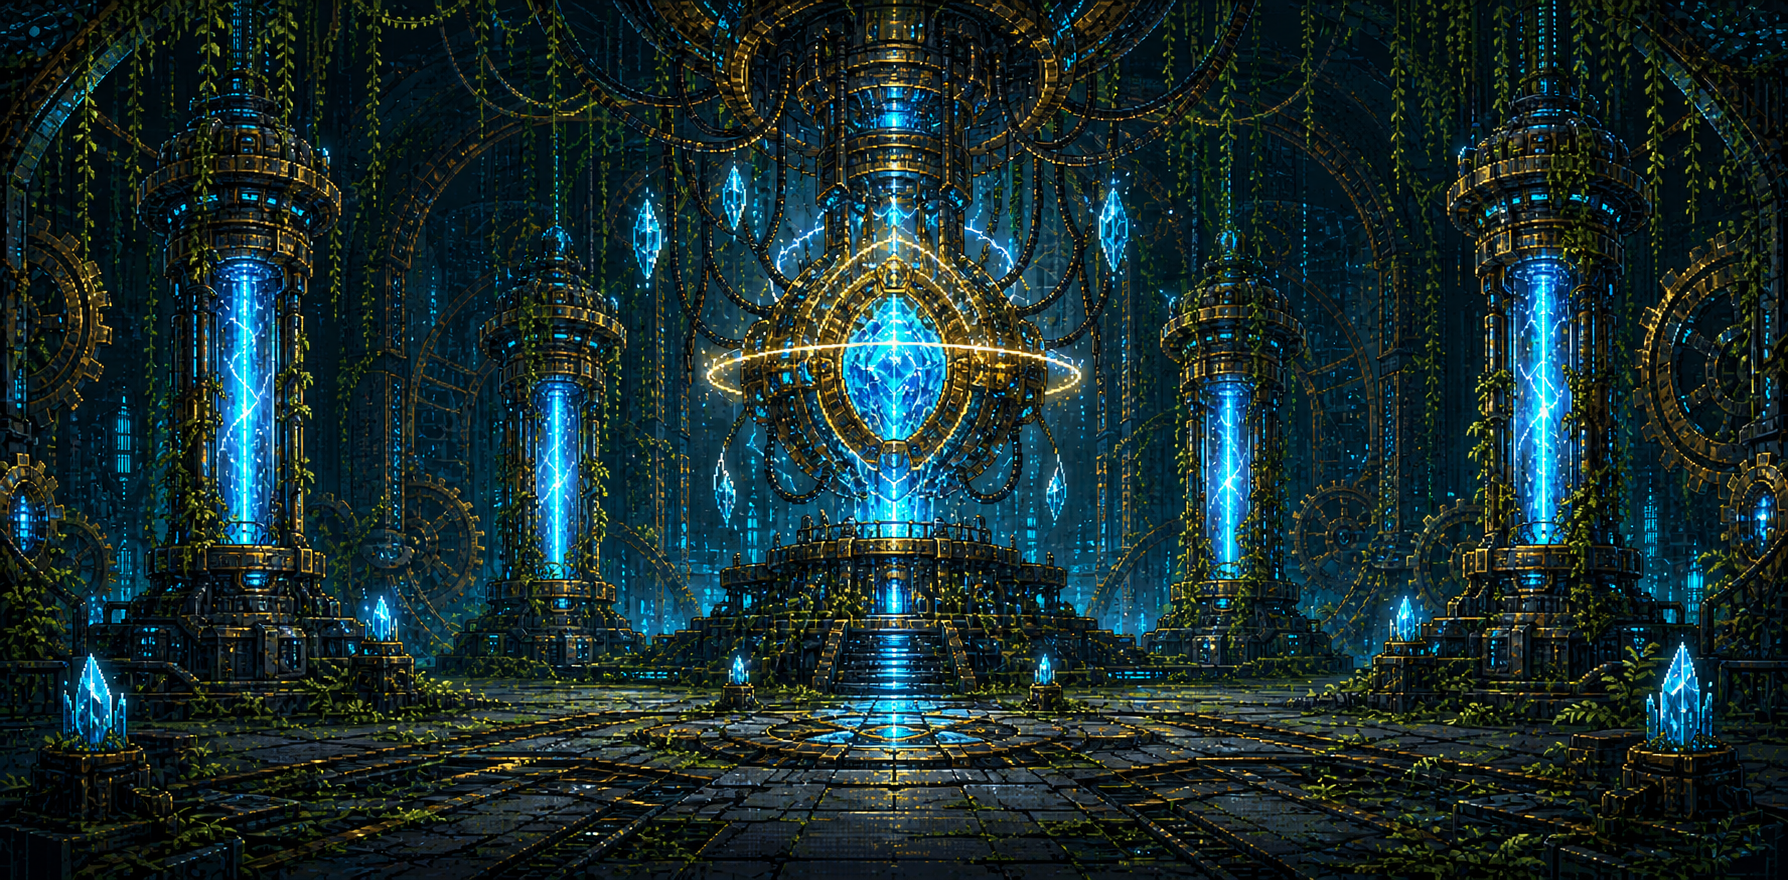
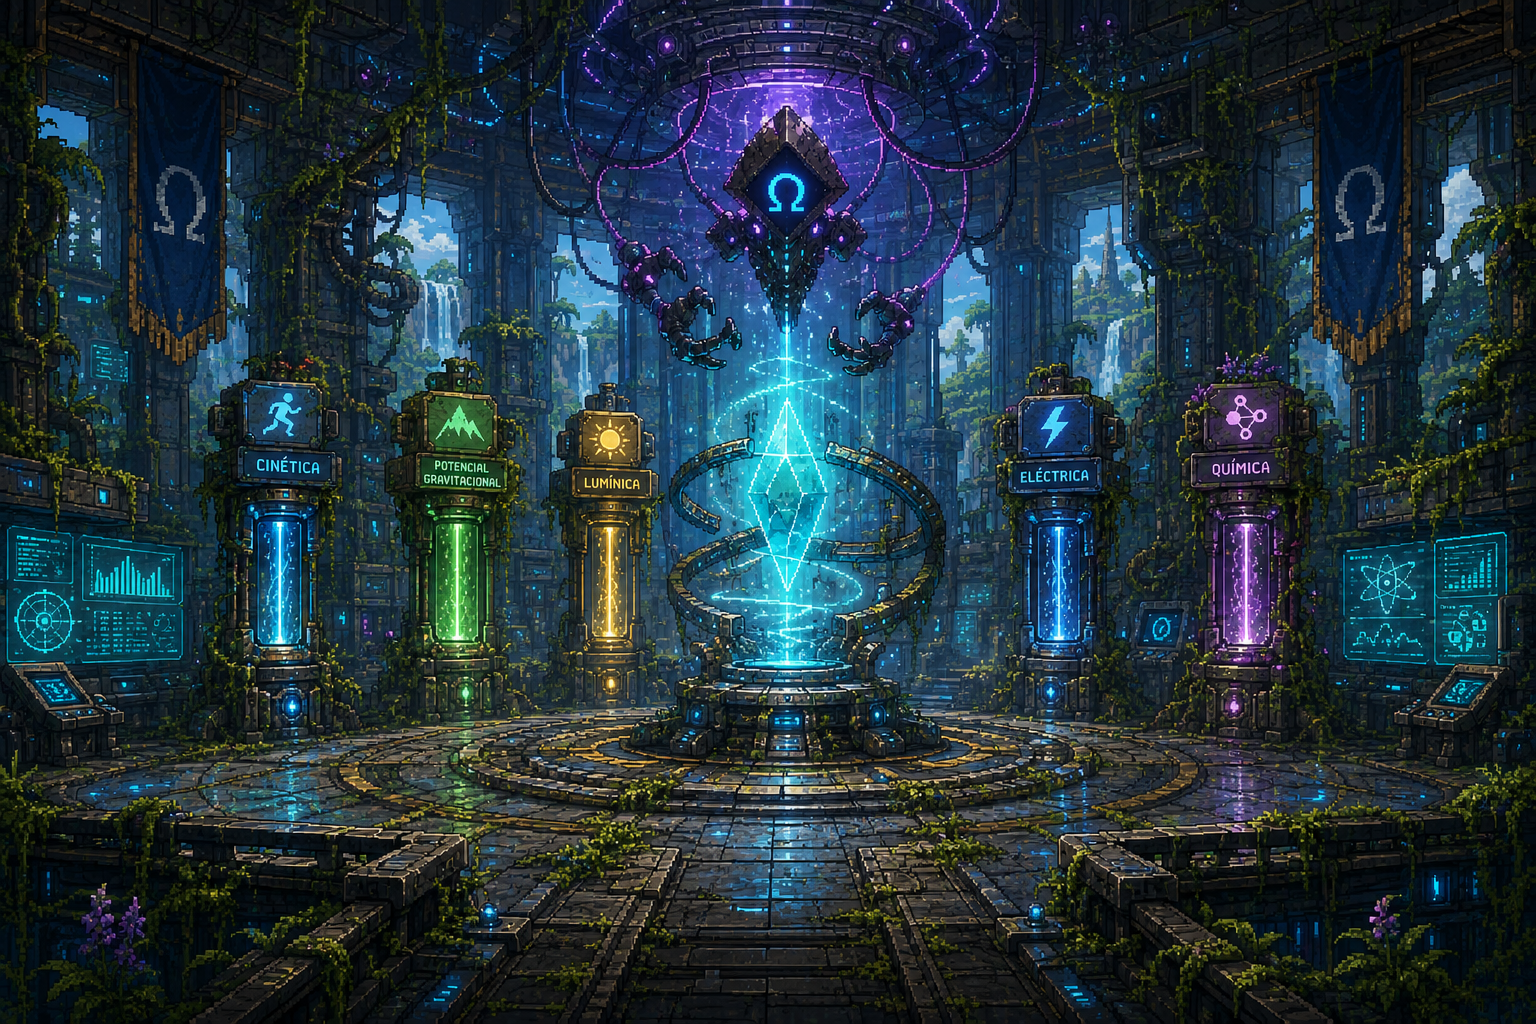
feat(final-level): ✨ ajustar áreas de interacción y mejorar recursos visuales

diff --git a/levels/final-level.ts b/levels/final-level.ts
@@ -38,7 +38,7 @@ export const finalLevel: LevelConfig = {
       id: 'cascada-energia',
       type: 'interactive',
       title: 'Cascada de Energia',
-      area: { x: 4, y: 49, width: 20, height: 48 },
+      area: { x: 1, y: 15, width: 26, height: 78 },
       unlockAfter: null,
       activityId: 'activity-28',
       visual: {
@@ -54,23 +54,24 @@ export const finalLevel: LevelConfig = {
       id: 'ecosistema-inteligente',
       type: 'interactive',
       title: 'Ecosistema Inteligente',
-      area: { x: 30, y: 50, width: 20, height: 48 },
+      area: { x: 23, y: 36, width: 18, height: 50 },
       unlockAfter: 'cascada-energia',
       activityId: 'activity-29',
       visual: {
         resource: '/assets/final-level/ecosistema.png',
-        transform: 'perspective(1000px) rotateZ(-1deg)',
+        transform: 'perspective(1000px) translateY(-8px) scale(0.88) rotateZ(-1deg)',
         transformOrigin: 'center center',
         fit: 'fill',
-        opacity: 1,
-        className: INTERACTIVE_OBJECT_STYLES.hoverDefault,
+        opacity: 0.9,
+        className:
+          `${INTERACTIVE_OBJECT_STYLES.hoverDefault} saturate-90 brightness-95 contrast-90 blur-[0.4px] drop-shadow-[0_8px_18px_rgba(0,0,0,0.12)]`,
       },
     },
     {
       id: 'laboratorio-transformaciones',
       type: 'interactive',
       title: 'Laboratorio de Transformaciones',
-      area: { x: 56, y: 50, width: 17, height: 48 },
+      area: { x: 60, y: 42, width: 18, height: 45 },
       unlockAfter: 'ecosistema-inteligente',
       activityId: 'activity-30',
       visual: {
@@ -86,7 +87,7 @@ export const finalLevel: LevelConfig = {
       id: 'nexus-omega',
       type: 'interactive',
       title: 'NEXUS Ω',
-      area: { x: 76, y: 38, width: 20, height: 60 },
+      area: { x: 76, y: 9, width: 25, height: 86 },
       unlockAfter: 'laboratorio-transformaciones',
       activityId: 'activity-31',
       visual: {